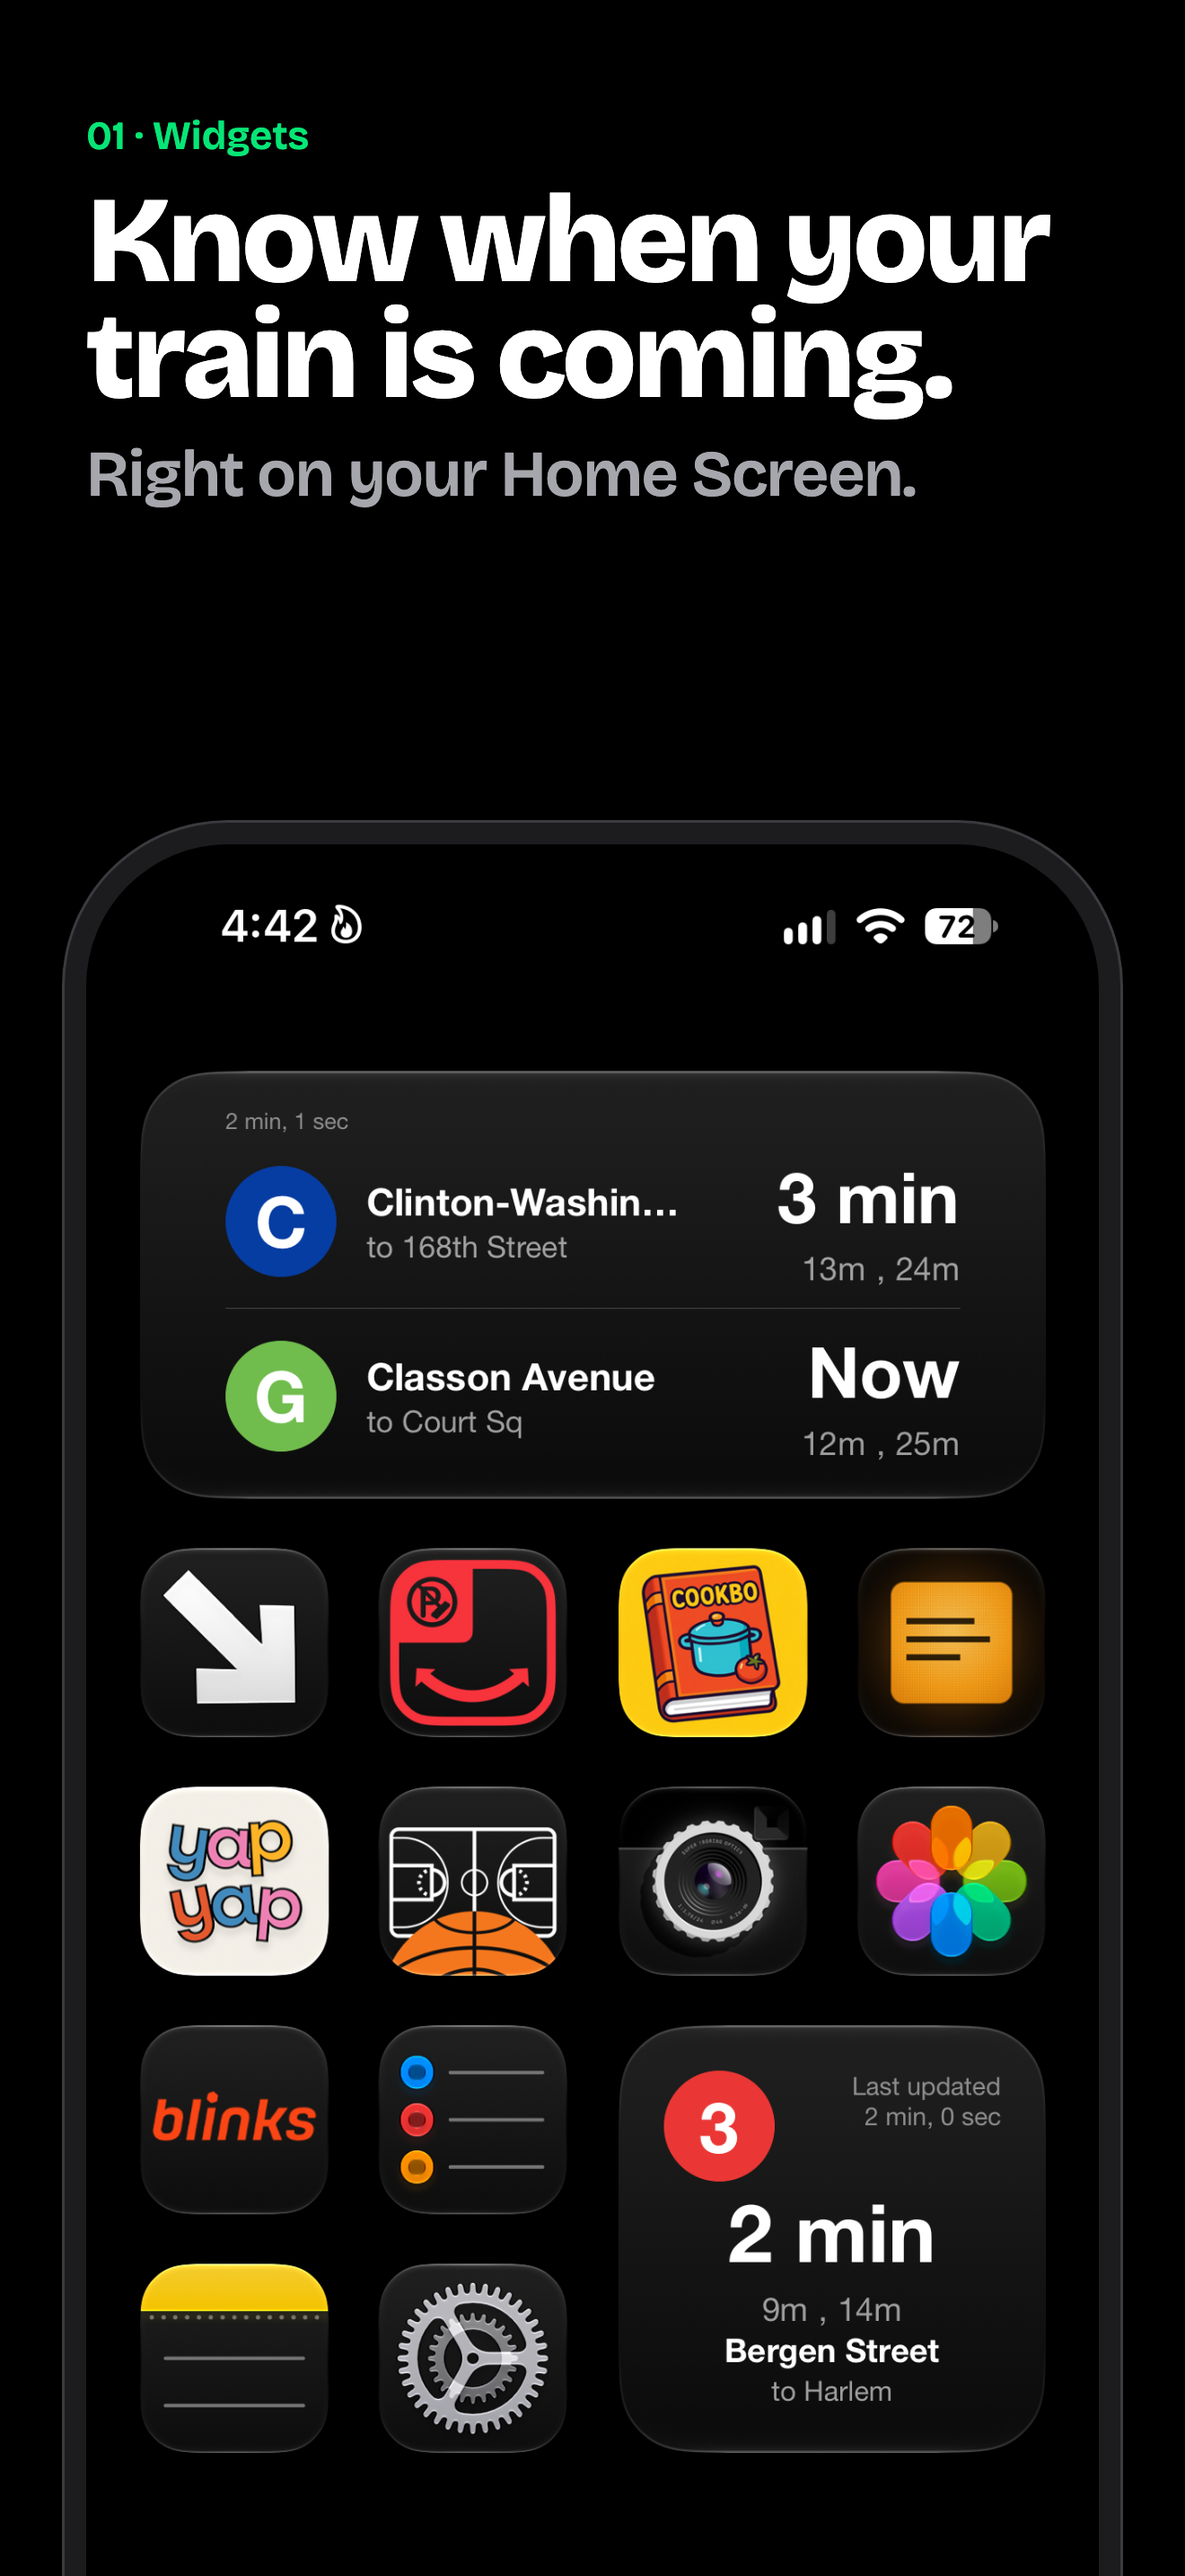
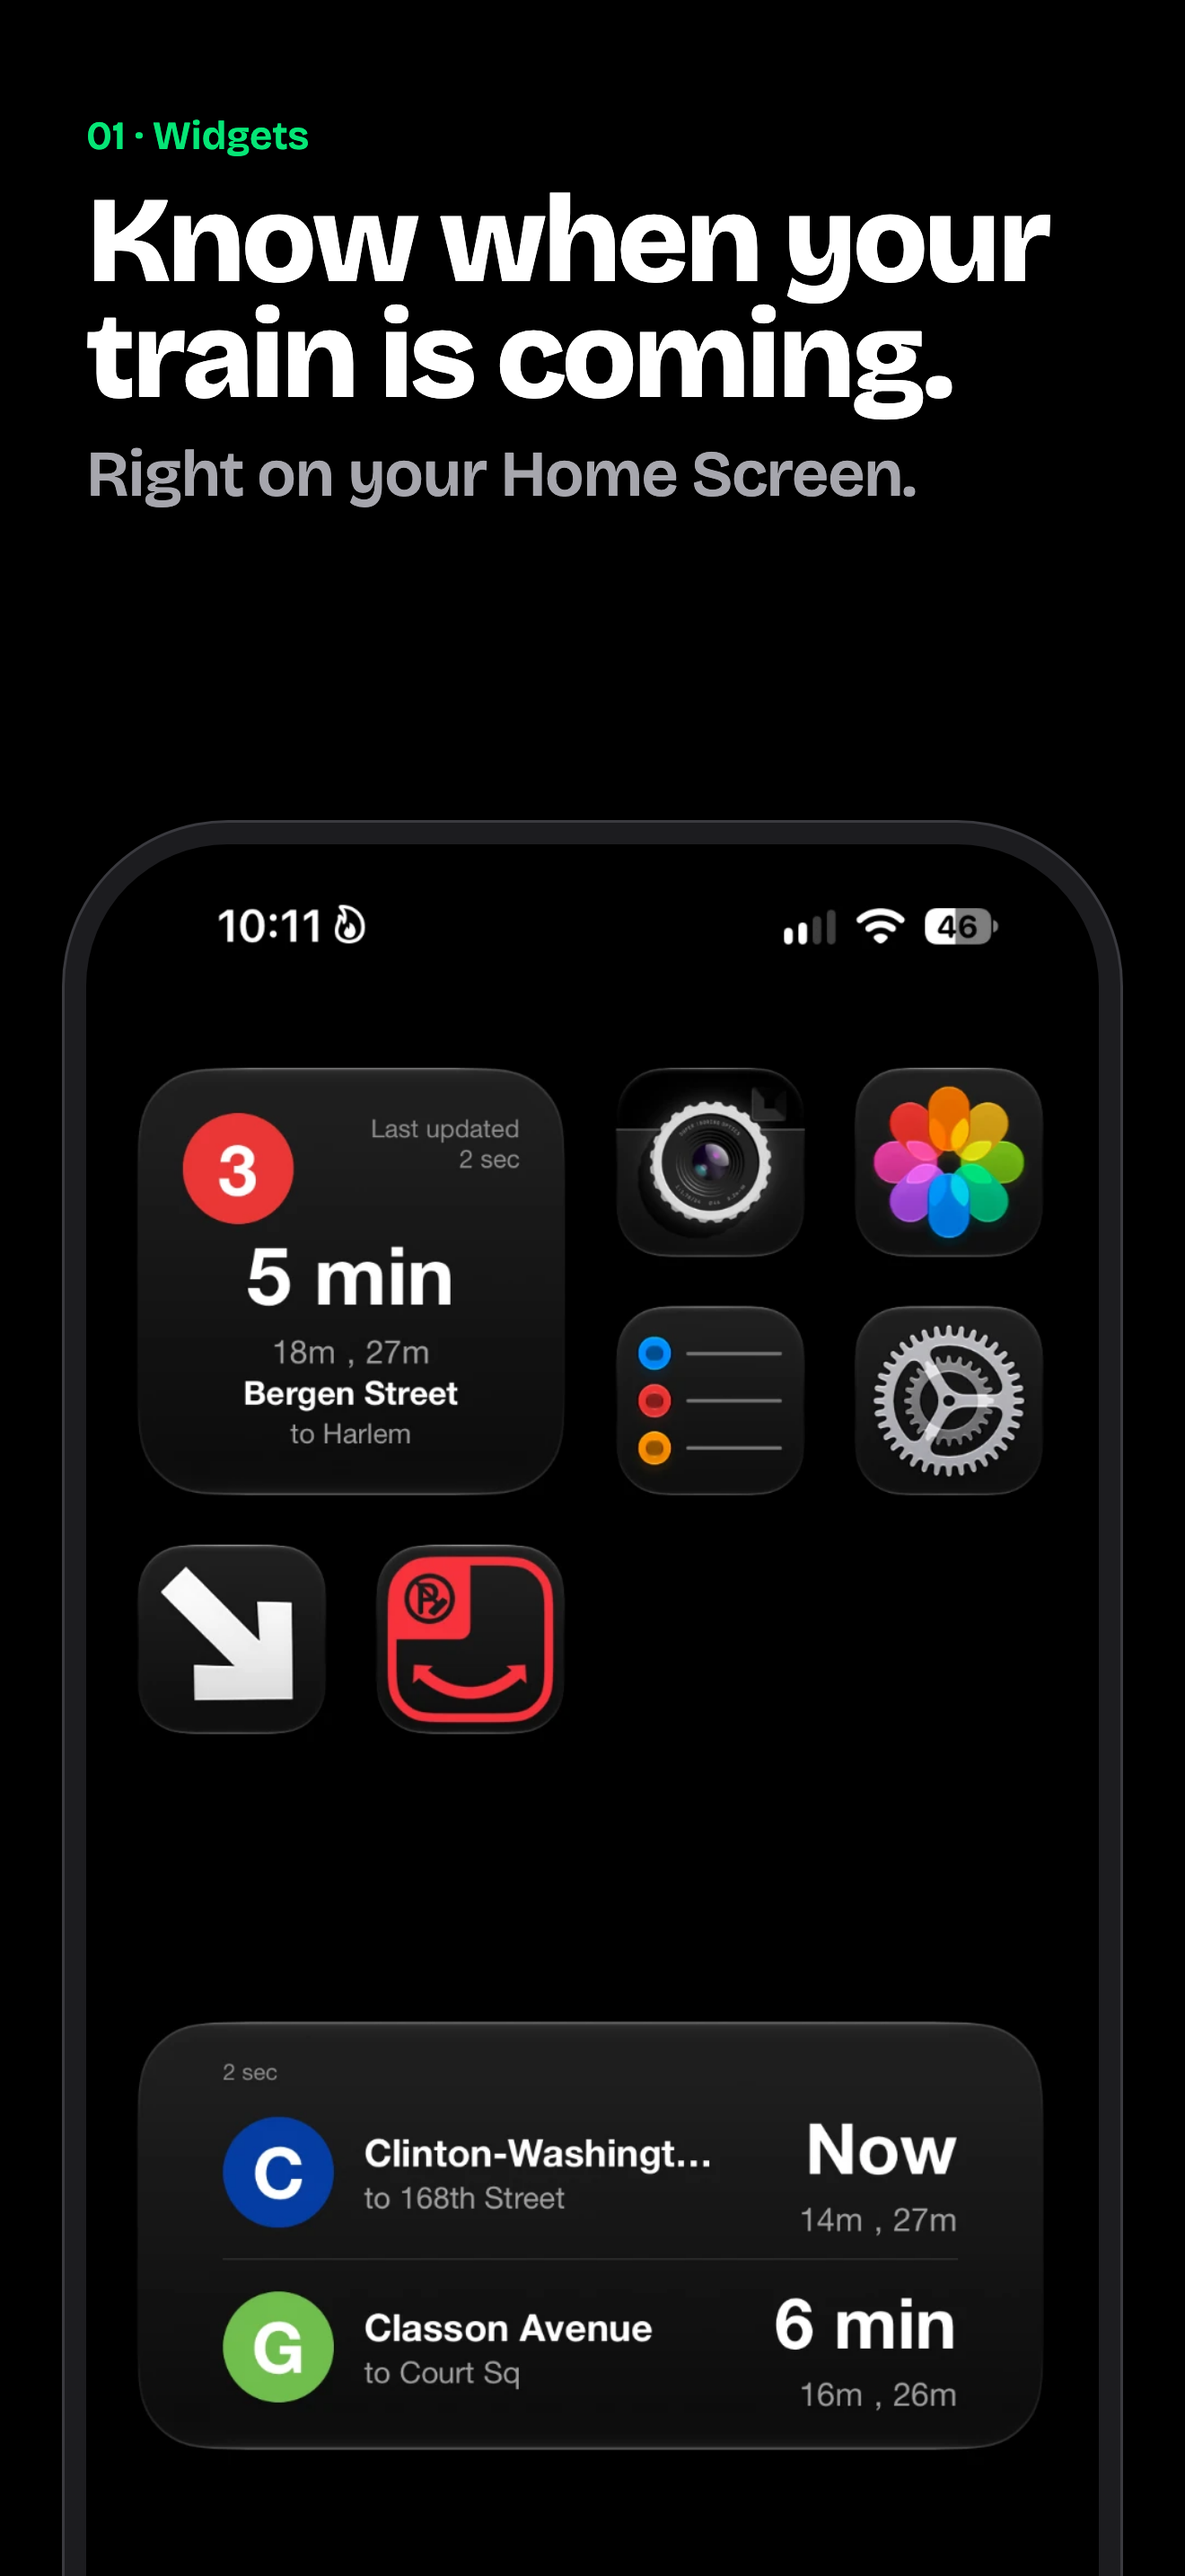
Use the new Home Screen capture for screenshot 01

diff --git a/screenshots/README.md b/screenshots/README.md
@@ -24,7 +24,7 @@ Needs Python 3 and Google Chrome. No packages to install.
 
 | Screenshot | Capture | State |
 | --- | --- | --- |
-| 01 Widgets | `captures/01-widgets.png` | Real Home Screen capture. Ready |
+| 01 Widgets | `captures/01-widgets.png` | Real Home Screen capture from iPhone, Nov 2026. 920 × 2000 (a resized copy), so slightly soft; swap in the full-size original if you have it. Ready |
 | 02 Nearby | `captures/02-nearby.png` | iPhone 18 Pro Max Simulator, iOS 27, Grand Central. Ready |
 | 03 Lines | `captures/03-lines.png` | iPhone 18 Pro Max Simulator, iOS 27. Ready |
 | 04 Countdown | `captures/04-countdown.png` | iPhone 18 Pro Max Simulator, iOS 27, uptown 5 at Grand Central. Ready |
